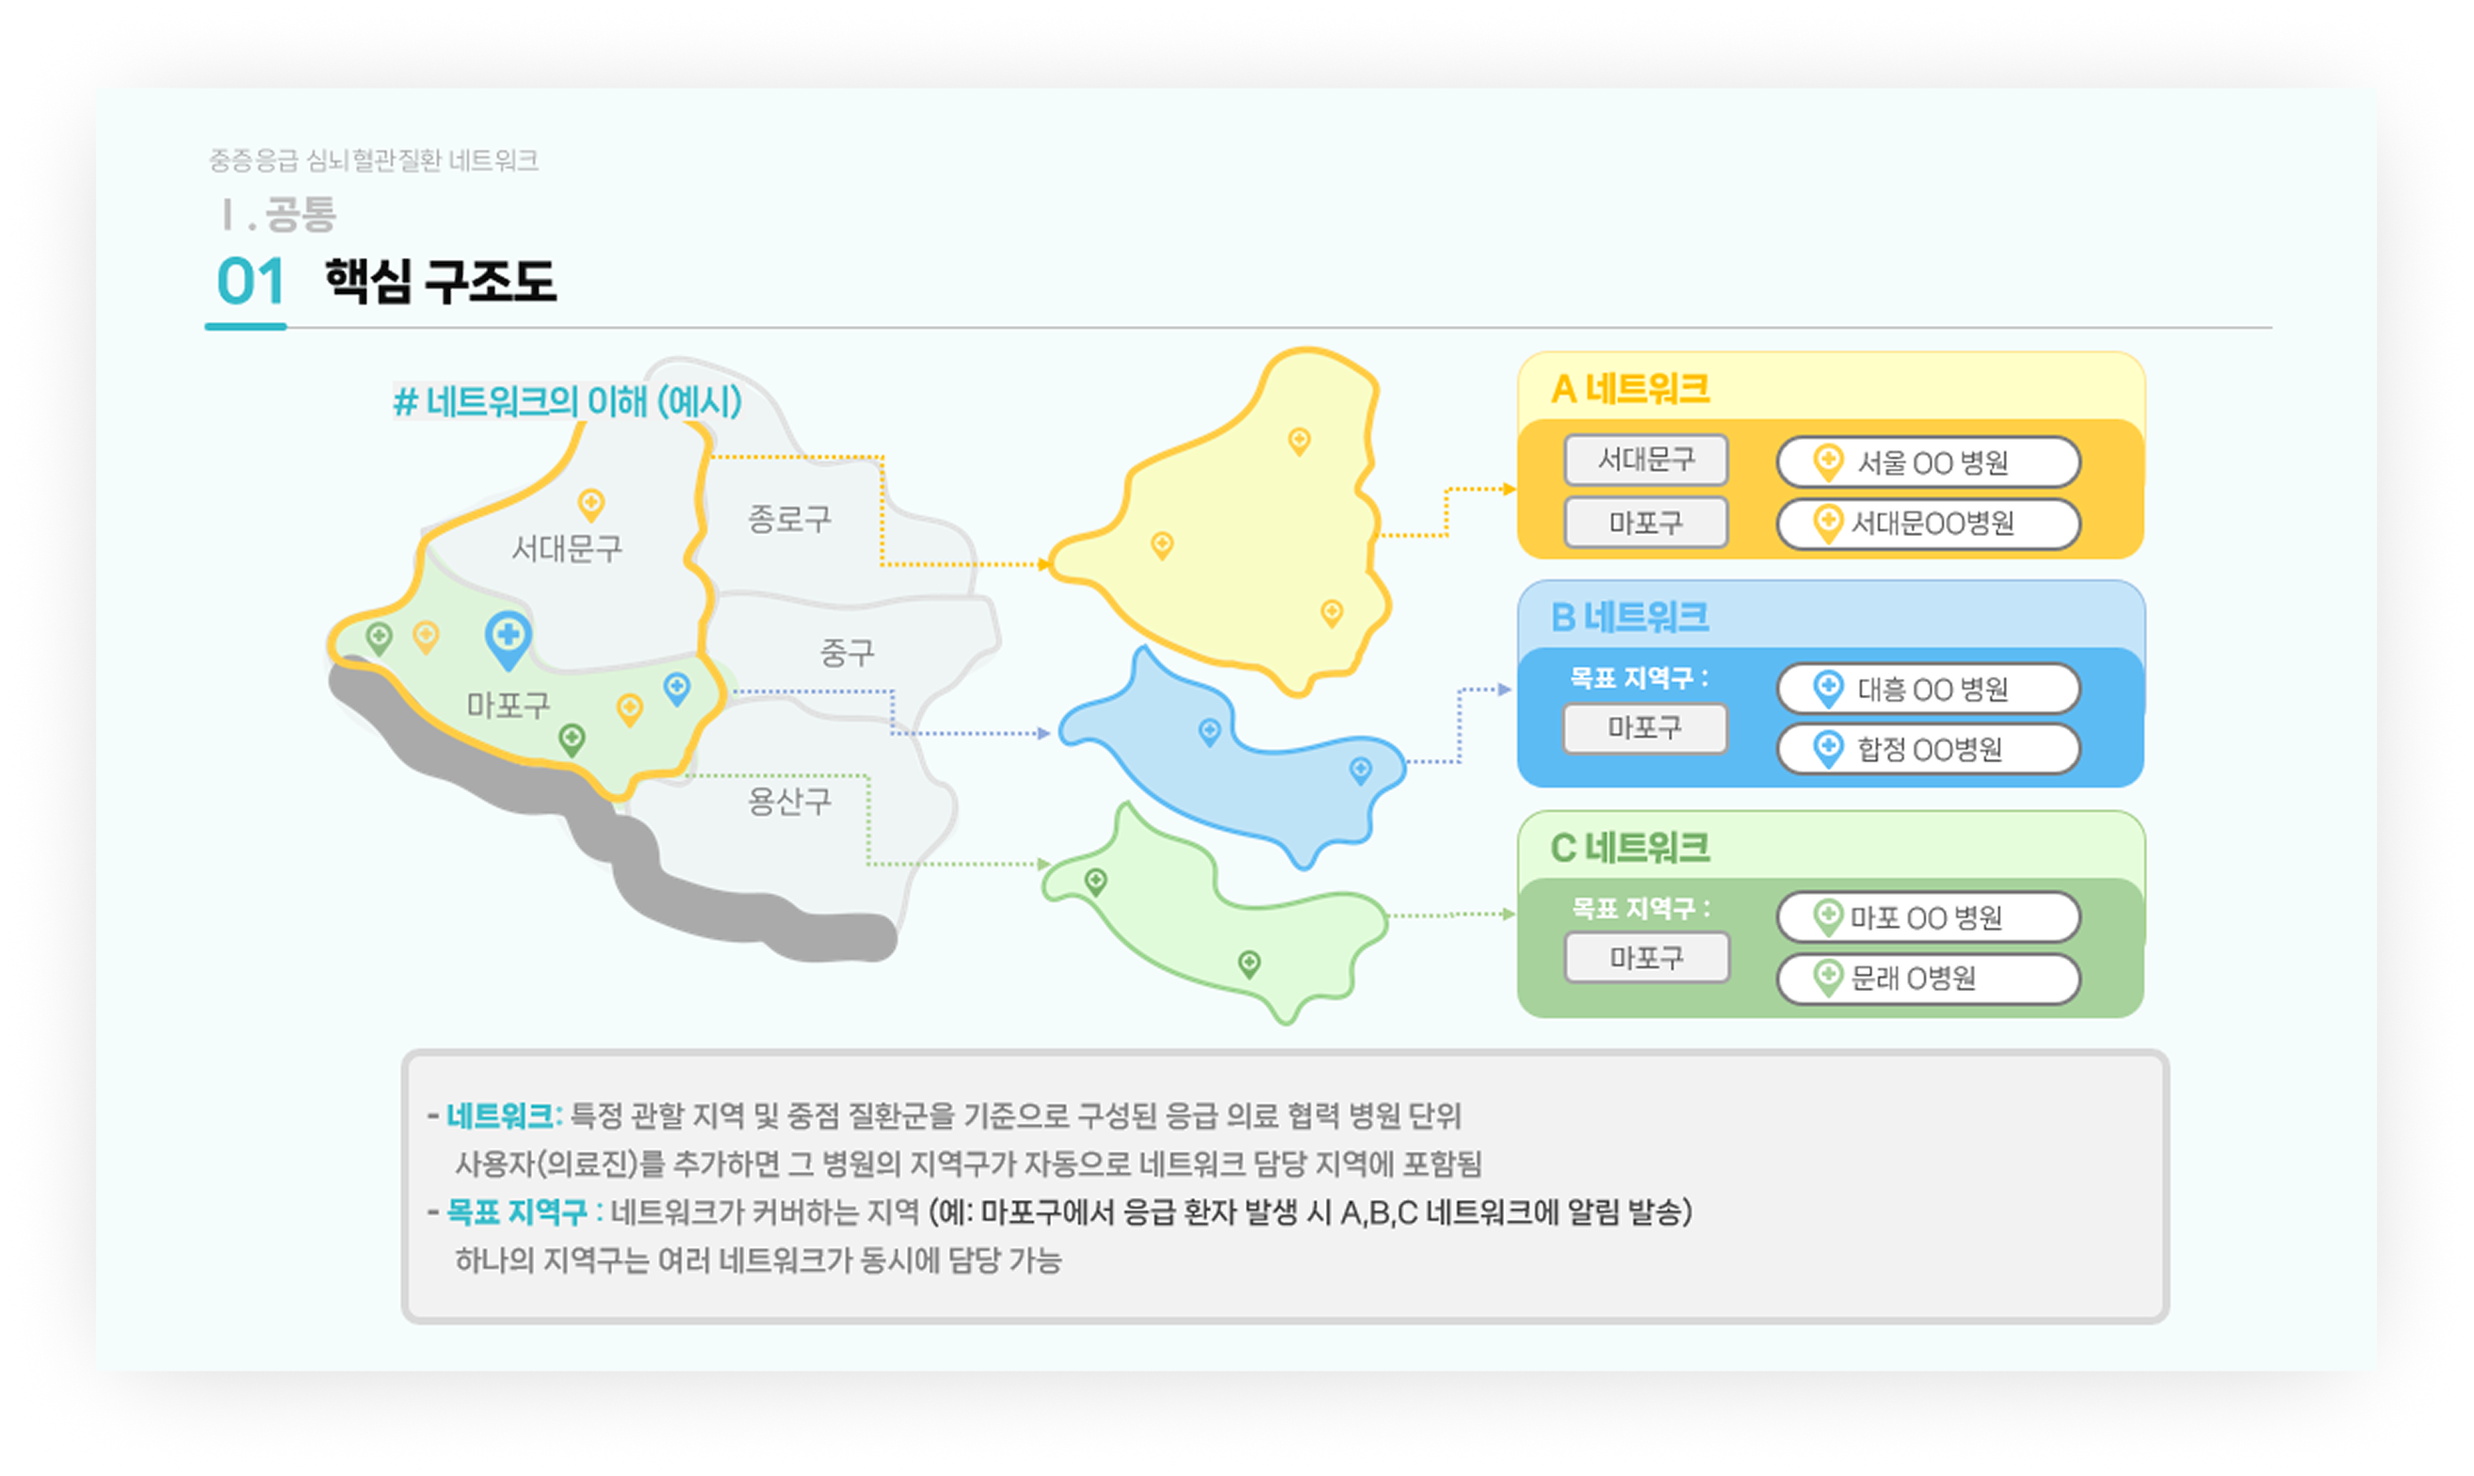
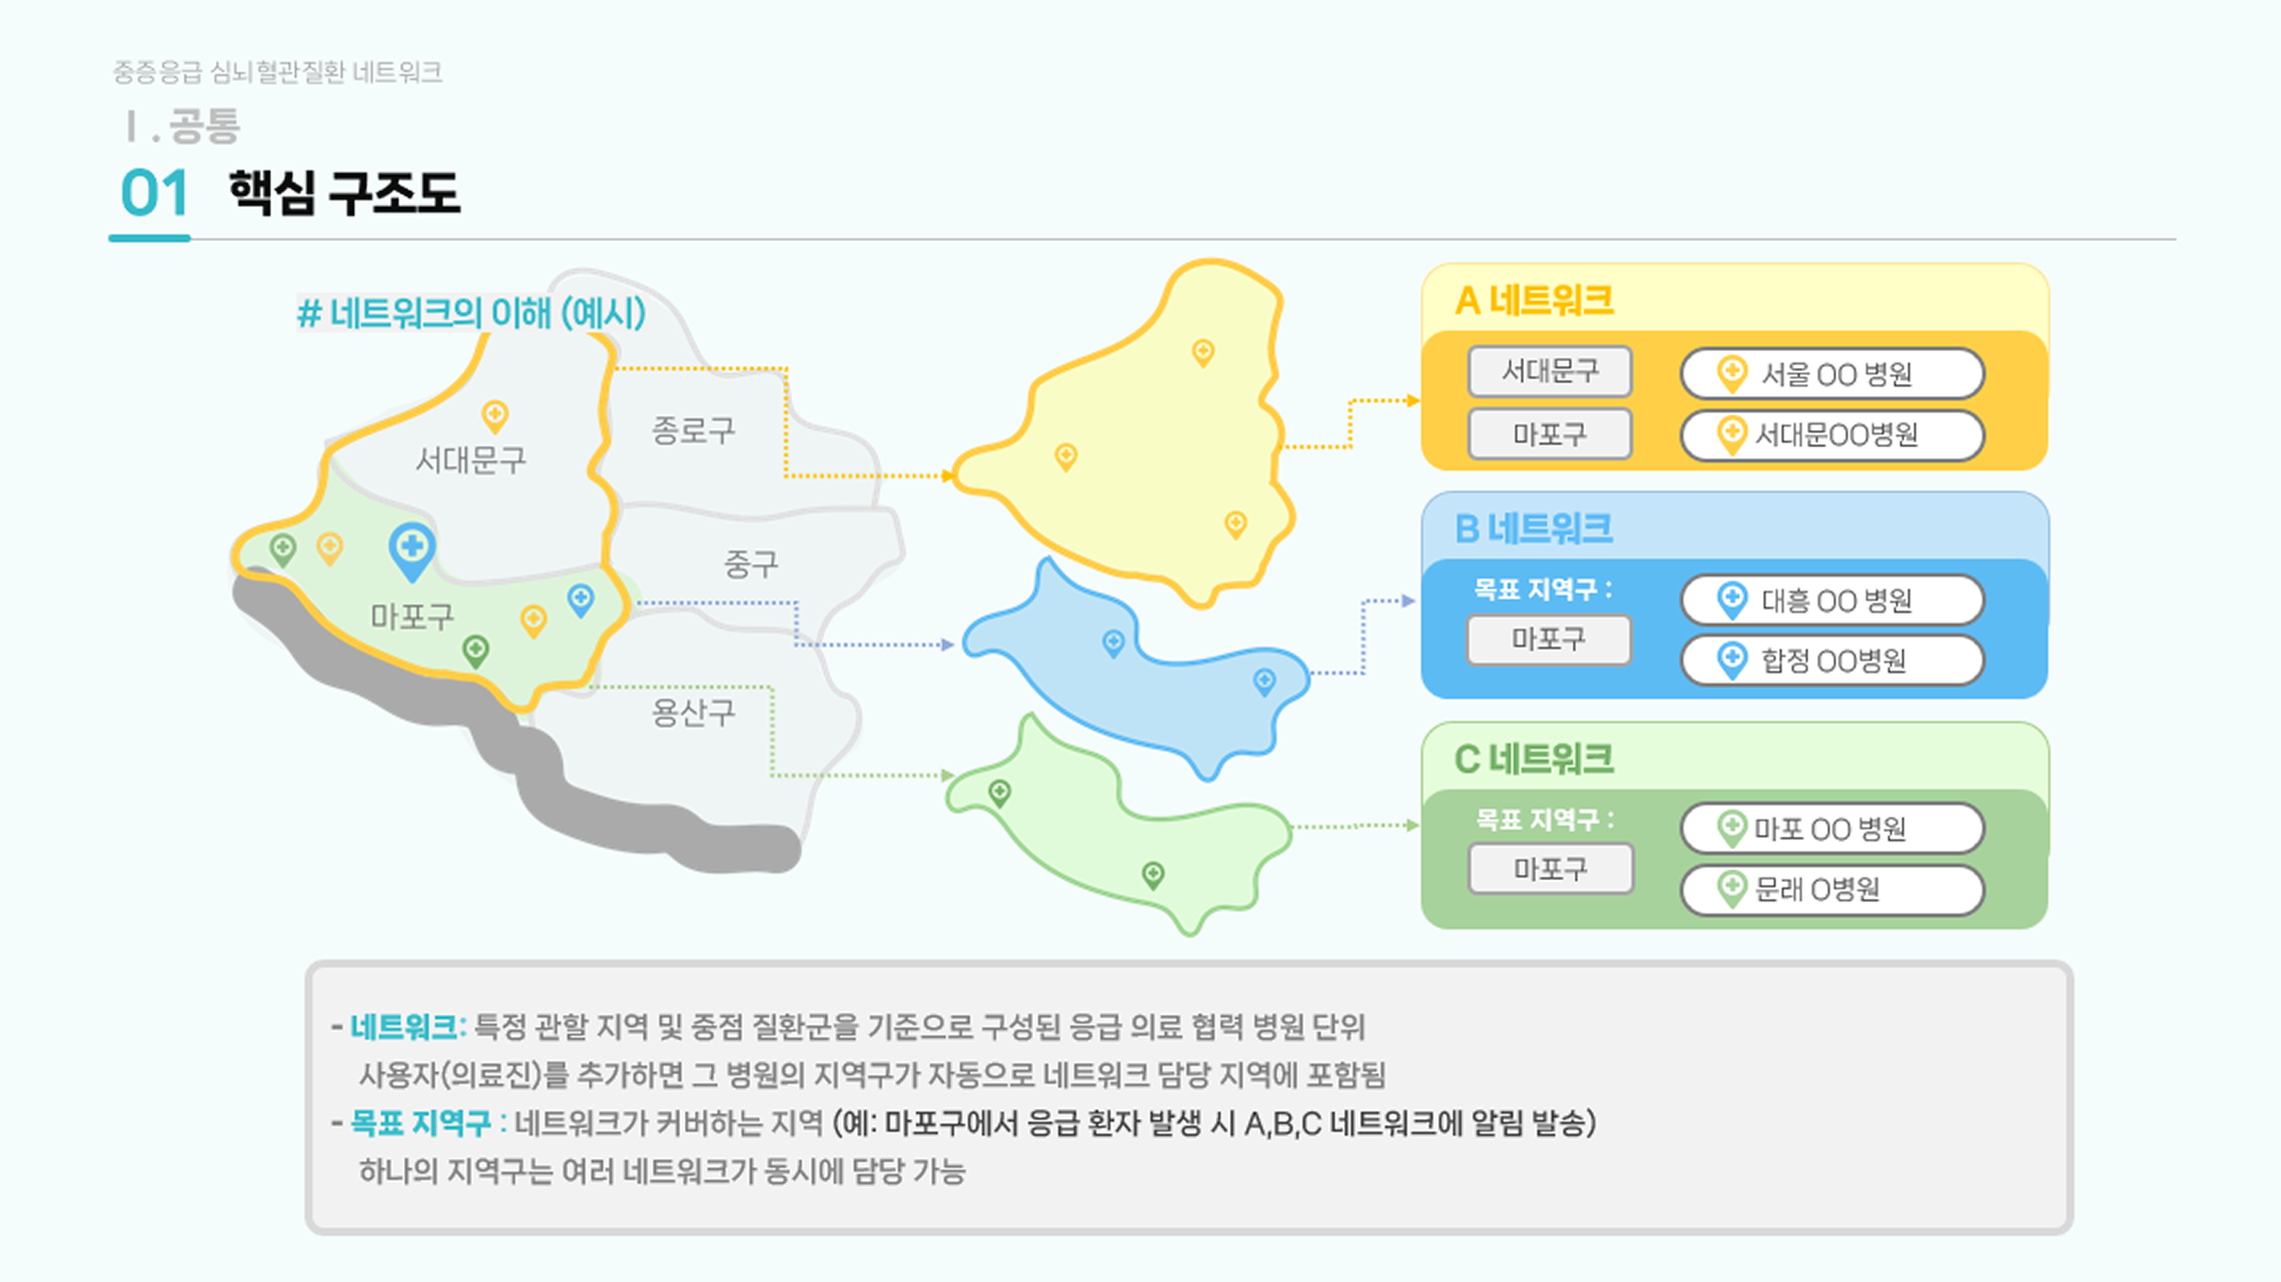
작은 수정

Changed region(s): [[0.031, 0.0308, 0.929, 0.9251], [0.1239, 0.9559, 0.898, 0.9868]]

diff --git a/src/styles/global.css b/src/styles/global.css
@@ -411,10 +411,14 @@ img {
   display: grid;
   grid-template-columns: 0.96fr 1.04fr;
   gap: 28px;
-  align-items: center;
+  align-items: stretch;
 }
 
 .about-box {
+  min-height: 460px;
+  display: flex;
+  flex-direction: column;
+  justify-content: center;
   padding: 32px 30px;
   border-radius: 28px;
   background: var(--card);
@@ -447,14 +451,16 @@ img {
   box-shadow: var(--shadow);
   position: relative;
   overflow: hidden;
-  padding: 22px;
+  padding: 18px;
 }
 
-.about-diagram {
-  width: 100%;
-  height: auto;
+.about-visual-image {
   display: block;
-  filter: drop-shadow(0 12px 22px rgba(17, 24, 19, 0.08));
+  width: 100%;
+  height: 100%;
+  max-height: 420px;
+  object-fit: contain;
+  border-radius: 18px;
 }
 
 .service-grid {
